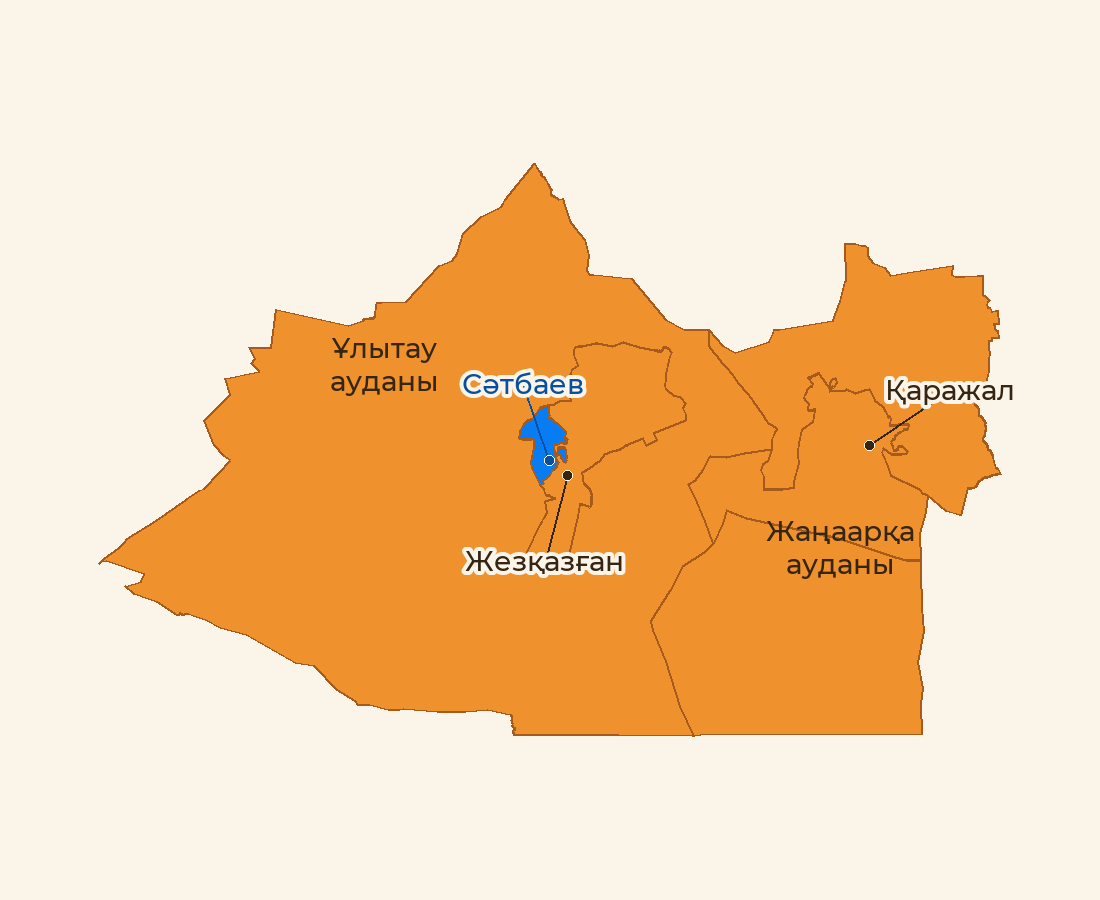
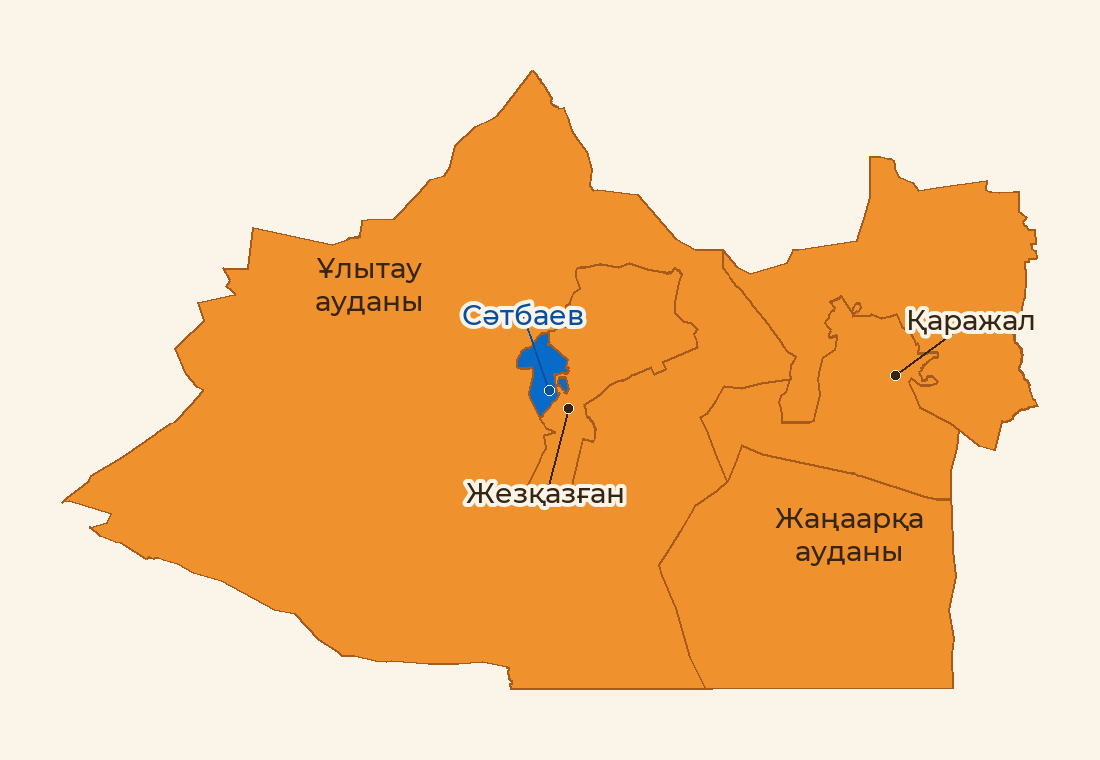
Improve readability of Ulytau district maps

diff --git a/assets/ulytau-schools.js b/assets/ulytau-schools.js
@@ -60,7 +60,7 @@ window.ULYTAU_SCHOOLS = {
         "kk": "Мекенжайы: Сәтбаев қаласы, Мәңгілік ел көшесі, 11А",
         "ru": "Адрес: город Сатпаев, ул. Мәңгілік ел, 11А"
       },
-      "mapImage": "assets/ulytau-maps/satpayev.png"
+      "mapImage": "assets/ulytau-maps/satpayev.png?v=2"
     },
     {
       "id": "ulytau-satpayev-2",
@@ -77,7 +77,7 @@ window.ULYTAU_SCHOOLS = {
         "kk": "Мекенжайы: Сәтбаев қаласы, Наурыз көшесі, 144",
         "ru": "Адрес: город Сатпаев, ул. Наурыз, 144"
       },
-      "mapImage": "assets/ulytau-maps/satpayev.png"
+      "mapImage": "assets/ulytau-maps/satpayev.png?v=2"
     },
     {
       "id": "ulytau-satpayev-3",
@@ -94,7 +94,7 @@ window.ULYTAU_SCHOOLS = {
         "kk": "Мекенжайы: Сәтбаев қаласы, Сәтбаев даңғылы, 114А",
         "ru": "Адрес: город Сатпаев, пр. Сатпаева, 114А"
       },
-      "mapImage": "assets/ulytau-maps/satpayev.png"
+      "mapImage": "assets/ulytau-maps/satpayev.png?v=2"
     },
     {
       "id": "ulytau-satpayev-4",
@@ -122,7 +122,7 @@ window.ULYTAU_SCHOOLS = {
         "kk": "Мекенжайы: Сәтбаев қаласы, Тәуелсіздік даңғылы, 20",
         "ru": "Адрес: город Сатпаев, пр. Независимости, 20"
       },
-      "mapImage": "assets/ulytau-maps/satpayev.png"
+      "mapImage": "assets/ulytau-maps/satpayev.png?v=2"
     },
     {
       "id": "ulytau-satpayev-5",
@@ -149,7 +149,7 @@ window.ULYTAU_SCHOOLS = {
         "kk": "Мекенжайы: Сәтбаев қаласы, Сәтбаев даңғылы, 139",
         "ru": "Адрес: город Сатпаев, пр. Сатпаева, 139"
       },
-      "mapImage": "assets/ulytau-maps/satpayev.png"
+      "mapImage": "assets/ulytau-maps/satpayev.png?v=2"
     },
     {
       "id": "ulytau-satpayev-6",
@@ -170,7 +170,7 @@ window.ULYTAU_SCHOOLS = {
         "kk": "Мекенжайы: Сәтбаев қаласы, Наурыз көшесі, 5",
         "ru": "Адрес: город Сатпаев, ул. Наурыз, 5"
       },
-      "mapImage": "assets/ulytau-maps/satpayev.png"
+      "mapImage": "assets/ulytau-maps/satpayev.png?v=2"
     },
     {
       "id": "ulytau-satpayev-7",
@@ -187,7 +187,7 @@ window.ULYTAU_SCHOOLS = {
         "kk": "Мекенжайы: Сәтбаев қаласы, Ерден көшесі, 217",
         "ru": "Адрес: город Сатпаев, ул. Ердена, 217"
       },
-      "mapImage": "assets/ulytau-maps/satpayev.png"
+      "mapImage": "assets/ulytau-maps/satpayev.png?v=2"
     },
     {
       "id": "ulytau-satpayev-8",
@@ -204,7 +204,7 @@ window.ULYTAU_SCHOOLS = {
         "kk": "Мекенжайы: Сәтбаев қаласы, Мәңгілік ел көшесі, 12А",
         "ru": "Адрес: город Сатпаев, ул. Мәңгілік ел, 12А"
       },
-      "mapImage": "assets/ulytau-maps/satpayev.png"
+      "mapImage": "assets/ulytau-maps/satpayev.png?v=2"
     },
     {
       "id": "ulytau-satpayev-9",
@@ -239,7 +239,7 @@ window.ULYTAU_SCHOOLS = {
         "kk": "Мекенжайы: Сәтбаев қаласы, Наурыз көшесі, 7",
         "ru": "Адрес: город Сатпаев, ул. Наурыз, 7"
       },
-      "mapImage": "assets/ulytau-maps/satpayev.png"
+      "mapImage": "assets/ulytau-maps/satpayev.png?v=2"
     },
     {
       "id": "ulytau-zhanaarka-10",
@@ -267,7 +267,7 @@ window.ULYTAU_SCHOOLS = {
         "kk": "Мекенжайы: Жаңаарқа ауданы, Жаңаарқа кенті, Байдалы би көшесі, 11/2",
         "ru": "Адрес: Жанааркинский район, пос. Жанаарка, ул. Байдалы би, 11/2"
       },
-      "mapImage": "assets/ulytau-maps/zhanaarka.png"
+      "mapImage": "assets/ulytau-maps/zhanaarka.png?v=2"
     },
     {
       "id": "ulytau-zhanaarka-11",
@@ -292,7 +292,7 @@ window.ULYTAU_SCHOOLS = {
         "kk": "Мекенжайы: Жаңаарқа ауданы, Жаңаарқа кенті, А. Оспанова көшесі, 36",
         "ru": "Адрес: Жанааркинский район, пос. Жанаарка, ул. А. Оспановой, 36"
       },
-      "mapImage": "assets/ulytau-maps/zhanaarka.png"
+      "mapImage": "assets/ulytau-maps/zhanaarka.png?v=2"
     },
     {
       "id": "ulytau-zhanaarka-12",
@@ -321,7 +321,7 @@ window.ULYTAU_SCHOOLS = {
         "kk": "Мекенжайы: Жаңаарқа ауданы, Қызылжар кенті, Қ. Байдәулетов көшесі, 1",
         "ru": "Адрес: Жанааркинский район, пос. Кызылжар, ул. К. Байдаулетова, 1"
       },
-      "mapImage": "assets/ulytau-maps/zhanaarka.png"
+      "mapImage": "assets/ulytau-maps/zhanaarka.png?v=2"
     },
     {
       "id": "ulytau-zhanaarka-13",
@@ -338,7 +338,7 @@ window.ULYTAU_SCHOOLS = {
         "kk": "Мекенжайы: Жаңаарқа ауданы, Жаңаарқа кенті, Абай көшесі, 35/1",
         "ru": "Адрес: Жанааркинский район, пос. Жанаарка, ул. Абая, 35/1"
       },
-      "mapImage": "assets/ulytau-maps/zhanaarka.png"
+      "mapImage": "assets/ulytau-maps/zhanaarka.png?v=2"
     },
     {
       "id": "ulytau-zhanaarka-14",
@@ -355,7 +355,7 @@ window.ULYTAU_SCHOOLS = {
         "kk": "Мекенжайы: Жаңаарқа ауданы, Түгіскен ауылы, Ыдырыс Жұмабеков көшесі, 18",
         "ru": "Адрес: Жанааркинский район, с. Тугискен, ул. Ыдырыса Жумабекова, 18"
       },
-      "mapImage": "assets/ulytau-maps/zhanaarka.png"
+      "mapImage": "assets/ulytau-maps/zhanaarka.png?v=2"
     },
     {
       "id": "ulytau-zhanaarka-15",
@@ -379,7 +379,7 @@ window.ULYTAU_SCHOOLS = {
         "kk": "Мекенжайы: Жаңаарқа ауданы, Ынталы ауылы, Бірлік көшесі, 13",
         "ru": "Адрес: Жанааркинский район, с. Инталы, ул. Бірлік, 13"
       },
-      "mapImage": "assets/ulytau-maps/zhanaarka.png"
+      "mapImage": "assets/ulytau-maps/zhanaarka.png?v=2"
     },
     {
       "id": "ulytau-zhanaarka-16",
@@ -396,7 +396,7 @@ window.ULYTAU_SCHOOLS = {
         "kk": "Мекенжайы: Жаңаарқа ауданы, Атасу ауылы, С. Сейфуллин көшесі, 1",
         "ru": "Адрес: Жанааркинский район, с. Атасу, ул. С. Сейфуллина, 1"
       },
-      "mapImage": "assets/ulytau-maps/zhanaarka.png"
+      "mapImage": "assets/ulytau-maps/zhanaarka.png?v=2"
     },
     {
       "id": "ulytau-zhanaarka-17",
@@ -425,7 +425,7 @@ window.ULYTAU_SCHOOLS = {
         "kk": "Мекенжайы: Жаңаарқа ауданы, Ералиев ауылы, Мектеп көшесі, 13",
         "ru": "Адрес: Жанааркинский район, с. Ералиев, ул. Мектеп, 13"
       },
-      "mapImage": "assets/ulytau-maps/zhanaarka.png"
+      "mapImage": "assets/ulytau-maps/zhanaarka.png?v=2"
     },
     {
       "id": "ulytau-zhanaarka-18",
@@ -442,7 +442,7 @@ window.ULYTAU_SCHOOLS = {
         "kk": "Мекенжайы: Жаңаарқа ауданы, Мұқажан Жұмажанов ауылы, Сәкен Сейфуллин көшесі, 23",
         "ru": "Адрес: Жанааркинский район, с. Мукажана Жумажанова, ул. Сакена Сейфуллина, 23"
       },
-      "mapImage": "assets/ulytau-maps/zhanaarka.png"
+      "mapImage": "assets/ulytau-maps/zhanaarka.png?v=2"
     },
     {
       "id": "ulytau-zhanaarka-19",
@@ -467,7 +467,7 @@ window.ULYTAU_SCHOOLS = {
         "kk": "Мекенжайы: Жаңаарқа ауданы, Талдыбұлақ ауылы, Тәуелсіздік көшесі, 2",
         "ru": "Адрес: Жанааркинский район, с. Талдыбулак, ул. Тәуелсіздік, 2"
       },
-      "mapImage": "assets/ulytau-maps/zhanaarka.png"
+      "mapImage": "assets/ulytau-maps/zhanaarka.png?v=2"
     },
     {
       "id": "ulytau-ulytau-20",
@@ -484,7 +484,7 @@ window.ULYTAU_SCHOOLS = {
         "kk": "Мекенжайы: Ұлытау ауданы, Жезді кенті, Сәтбаев көшесі, 9",
         "ru": "Адрес: Улытауский район, пос. Жезды, ул. Сатпаева, 9"
       },
-      "mapImage": "assets/ulytau-maps/ulytau.png"
+      "mapImage": "assets/ulytau-maps/ulytau.png?v=2"
     },
     {
       "id": "ulytau-karazhal-21",
@@ -501,7 +501,7 @@ window.ULYTAU_SCHOOLS = {
         "kk": "Мекенжайы: Қаражал қаласы, Абай көшесі, 11",
         "ru": "Адрес: город Каражал, ул. Абая, 11"
       },
-      "mapImage": "assets/ulytau-maps/karazhal.png"
+      "mapImage": "assets/ulytau-maps/karazhal.png?v=2"
     },
     {
       "id": "ulytau-karazhal-22",
@@ -518,7 +518,7 @@ window.ULYTAU_SCHOOLS = {
         "kk": "Мекенжайы: Қаражал қаласы, Жәйрем кенті, Металлургтер көшесі, 85",
         "ru": "Адрес: город Каражал, пос. Жайрем, ул. Металлургов, 85"
       },
-      "mapImage": "assets/ulytau-maps/karazhal.png"
+      "mapImage": "assets/ulytau-maps/karazhal.png?v=2"
     },
     {
       "id": "ulytau-karazhal-23",
@@ -535,7 +535,7 @@ window.ULYTAU_SCHOOLS = {
         "kk": "Мекенжайы: Қаражал қаласы, Жәйрем кенті, Ғани Мұратбаев көшесі, 11",
         "ru": "Адрес: город Каражал, пос. Жайрем, ул. Гани Муратбаева, 11"
       },
-      "mapImage": "assets/ulytau-maps/karazhal.png"
+      "mapImage": "assets/ulytau-maps/karazhal.png?v=2"
     },
     {
       "id": "ulytau-zhezkazgan-24",
@@ -566,7 +566,7 @@ window.ULYTAU_SCHOOLS = {
         "kk": "Мекенжайы: Жезқазған қаласы, Кеңгір ауылы, Ы. Алтынсарин көшесі, 2",
         "ru": "Адрес: город Жезказган, с. Кенгир, ул. Ы. Алтынсарина, 2"
       },
-      "mapImage": "assets/ulytau-maps/zhezkazgan.png"
+      "mapImage": "assets/ulytau-maps/zhezkazgan.png?v=2"
     },
     {
       "id": "ulytau-zhezkazgan-25",
@@ -595,7 +595,7 @@ window.ULYTAU_SCHOOLS = {
         "kk": "Мекенжайы: Жезқазған қаласы, Жалил көшесі, 10",
         "ru": "Адрес: город Жезказган, ул. Жалиля, 10"
       },
-      "mapImage": "assets/ulytau-maps/zhezkazgan.png"
+      "mapImage": "assets/ulytau-maps/zhezkazgan.png?v=2"
     },
     {
       "id": "ulytau-zhezkazgan-26",
@@ -612,7 +612,7 @@ window.ULYTAU_SCHOOLS = {
         "kk": "Мекенжайы: Жезқазған қаласы, Жанасов көшесі, 15",
         "ru": "Адрес: город Жезказган, ул. Жанасова, 15"
       },
-      "mapImage": "assets/ulytau-maps/zhezkazgan.png"
+      "mapImage": "assets/ulytau-maps/zhezkazgan.png?v=2"
     },
     {
       "id": "ulytau-zhezkazgan-27",
@@ -641,7 +641,7 @@ window.ULYTAU_SCHOOLS = {
         "kk": "Мекенжайы: Жезқазған қаласы, Бауыржан Момышұлы көшесі, 12",
         "ru": "Адрес: город Жезказган, ул. Бауыржана Момышулы, 12"
       },
-      "mapImage": "assets/ulytau-maps/zhezkazgan.png"
+      "mapImage": "assets/ulytau-maps/zhezkazgan.png?v=2"
     },
     {
       "id": "ulytau-zhezkazgan-28",
@@ -658,7 +658,7 @@ window.ULYTAU_SCHOOLS = {
         "kk": "Мекенжайы: Жезқазған қаласы, Ержанов көшесі, 11",
         "ru": "Адрес: город Жезказган, ул. Ержанова, 11"
       },
-      "mapImage": "assets/ulytau-maps/zhezkazgan.png"
+      "mapImage": "assets/ulytau-maps/zhezkazgan.png?v=2"
     },
     {
       "id": "ulytau-zhezkazgan-29",
@@ -698,7 +698,7 @@ window.ULYTAU_SCHOOLS = {
         "kk": "Мекенжайы: Жезқазған қаласы, Гагарин көшесі, 38",
         "ru": "Адрес: город Жезказган, ул. Гагарина, 38"
       },
-      "mapImage": "assets/ulytau-maps/zhezkazgan.png"
+      "mapImage": "assets/ulytau-maps/zhezkazgan.png?v=2"
     },
     {
       "id": "ulytau-zhezkazgan-30",
@@ -729,7 +729,7 @@ window.ULYTAU_SCHOOLS = {
         "kk": "Мекенжайы: Жезқазған қаласы, Аманжолов көшесі, 18",
         "ru": "Адрес: город Жезказган, ул. Аманжолова, 18"
       },
-      "mapImage": "assets/ulytau-maps/zhezkazgan.png"
+      "mapImage": "assets/ulytau-maps/zhezkazgan.png?v=2"
     }
   ]
 };

diff --git a/school.html b/school.html
@@ -155,7 +155,7 @@
 <script src="assets/zhambyl-schools.js?v=2"></script>
 <script src="assets/vko-schools.js?v=1"></script>
 <script src="assets/turkistan-schools.js?v=2"></script>
-<script src="assets/ulytau-schools.js?v=2"></script>
+<script src="assets/ulytau-schools.js?v=3"></script>
 <script src="assets/school-addresses.js?v=1"></script>
 <script src="school.js?v=101"></script>
 </body>

diff --git a/admin.html b/admin.html
@@ -581,7 +581,7 @@
 <script src="assets/zhambyl-schools.js?v=2"></script>
 <script src="assets/vko-schools.js?v=1"></script>
 <script src="assets/turkistan-schools.js?v=2"></script>
-<script src="assets/ulytau-schools.js?v=2"></script>
+<script src="assets/ulytau-schools.js?v=3"></script>
 <script src="admin-schools.js?v=19"></script>
 <script src="admin-regions.js?v=2"></script>
 </body>

diff --git a/index.html b/index.html
@@ -213,7 +213,7 @@
 <script src="assets/zhambyl-schools.js?v=2"></script>
 <script src="assets/vko-schools.js?v=1"></script>
 <script src="assets/turkistan-schools.js?v=2"></script>
-<script src="assets/ulytau-schools.js?v=2"></script>
+<script src="assets/ulytau-schools.js?v=3"></script>
 <script src="map.js?v=ulytau-1"></script>
 <script src="results.js?v=3"></script>
 

diff --git a/regions.html b/regions.html
@@ -145,7 +145,7 @@
 <script src="assets/zhambyl-schools.js?v=2"></script>
 <script src="assets/vko-schools.js?v=1"></script>
 <script src="assets/turkistan-schools.js?v=2"></script>
-<script src="assets/ulytau-schools.js?v=2"></script>
+<script src="assets/ulytau-schools.js?v=3"></script>
 <script src="map.js?v=ulytau-1"></script>
 </body>
 </html>
